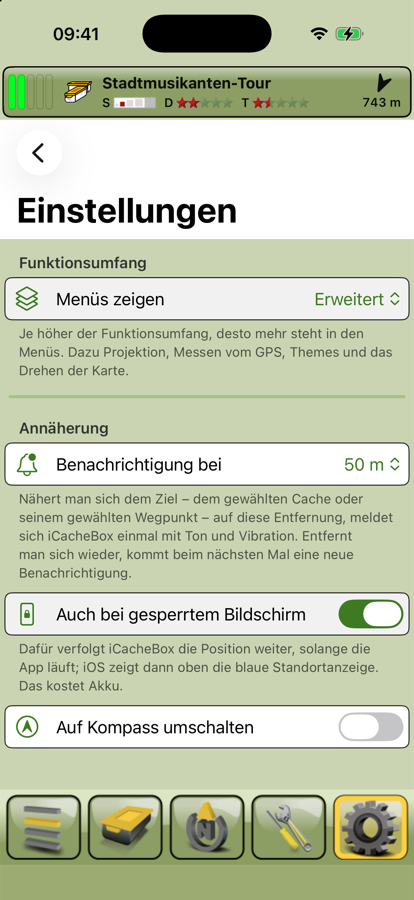
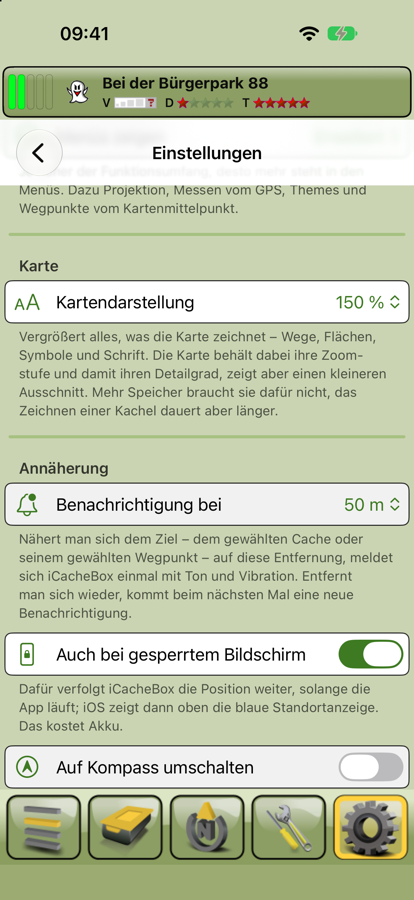
Write up the map size setting in the manual and on the website
The manual gets a section "Karte größer zeichnen" in the Offline-Karten
chapter, with a screenshot of the map at 150 % and of the setting itself,
and the Einstellungen section now names all three settings.

It also corrects a sentence that step 2 of the label layer made wrong:
"Beschriftungen drehen sich wie in Cachebox mit der Karte." Names of
places now stay horizontal, way names turn with their way but are drawn
the other way round before they would be upside down, and the collision
check runs in screen space. karte-gedreht.jpg is retaken to show it;
funktionsumfang.png and annaeherung.png are retaken because the settings
page has the new Karte section between them.

Website: a card "Lesbar unterwegs" on /karten, the same two abilities in
the Offline-Karte description on /funktionen, and the date there. Neither
goes into the Cachebox checklist: today's Cachebox renders bitmap tiles,
and the scale factor is a mapsforge setting it never exposes.

diff --git a/Website/src/main/java/de/cachebox/website/features/FeatureCatalog.java b/Website/src/main/java/de/cachebox/website/features/FeatureCatalog.java
@@ -39,7 +39,7 @@ public final class FeatureCatalog {
                     new Feature("cacheliste-22", "Beschreibungs- und Spoilerbilder beim Import vorladen", false),
                     new Feature("cacheliste-23", "Alte Logs beim Import löschen und Datenbank komprimieren", false))),
             new Section("map.png", "Offline-Karte",
-                    "Mapsforge-Vektorkarten mit frei wählbarem Theme, Freizeitkarten für ganz Europa direkt in der App laden. Alle Caches der Liste liegen auf der Karte, ein Tipp öffnet ihre Info-Blase. Dein Standort als Pfeil in Blickrichtung, im GPS-Modus folgt dir die Karte.", List.of(
+                    "Mapsforge-Vektorkarten mit frei wählbarem Theme, Freizeitkarten für ganz Europa direkt in der App laden. Alle Caches der Liste liegen auf der Karte, ein Tipp öffnet ihre Info-Blase. Dein Standort als Pfeil in Blickrichtung, im GPS-Modus folgt dir die Karte. Drehst du die Karte, bleibt die Beschriftung lesbar und steht nie kopfüber; ist sie dir zu klein, zeichnet iCachebox sie auf Wunsch bis 200 % größer.", List.of(
                     new Feature("karte-01", "Mapsforge-Vektorkarten (.map) offline anzeigen", true),
                     new Feature("karte-02", "Online-Karten wählen: Mapnik, OSM Cycle Map, ESRI-Satellitenbilder", false),
                     new Feature("karte-03", "Zusätzliche Kartenebenen über die Grundkarte legen", false),

diff --git a/Website/src/main/java/de/cachebox/website/views/MapsView.java b/Website/src/main/java/de/cachebox/website/views/MapsView.java
@@ -27,6 +27,10 @@ public class MapsView extends Page {
                 "Render-Themes wie Elevate bringen eigene Stile mit: Wandern, Stadt, Rad oder MTB. "
                         + "Einzelne Ebenen schaltest du im Stilmenü an und aus.",
                 link("OpenAndroMaps", "https://www.openandromaps.org"));
+        card("compass.png", "Lesbar unterwegs",
+                "Drehst du die Karte, bleiben Ortsnamen waagerecht stehen, und Straßennamen folgen zwar "
+                        + "ihrer Straße, stehen aber nie kopfüber. Und wenn dir die Karte zu klein ist, "
+                        + "zeichnet iCachebox sie auf Wunsch bis 200 % größer, ohne Detail zu verlieren.");
         card("satellite.png", "Deine Karten",
                 "Karten und Themes lädst du selbst und wählst sie in der App aus – "
                         + "dieselben Dateien wie in Cachebox für Android.");

diff --git a/Website/src/main/java/de/cachebox/website/views/FeaturesView.java b/Website/src/main/java/de/cachebox/website/views/FeaturesView.java
@@ -22,7 +22,7 @@ public class FeaturesView extends Page {
                 "iCachebox ist dein Werkzeugkasten für die Dosensuche: Alles, was du unterwegs brauchst, "
                         + "liegt auf dem Gerät – auch dort, wo es kein Netz gibt. "
                         + "Die Checklisten zählen die Funktionen von Cachebox für Android auf; abgehakt ist, "
-                        + "was iCachebox schon kann (Stand: 23. November 2026).");
+                        + "was iCachebox schon kann (Stand: 24. November 2026).");
 
         addClassName("features");
         RouterLink vote = new RouterLink("Für die nächsten Funktionspakete abstimmen →", ComingSoonView.class);

diff --git a/CLAUDE.md b/CLAUDE.md
@@ -544,6 +544,13 @@ wird die Kachel auf halber Größe gezeichnet und die Schrift ist entsprechend k
 Einstellung (die Formel `z = round(20 + log2(zoomScale))` ist bei Normal unverändert) und nicht behoben; der
 Faktor wirkt sauber darauf, die Größe ist also immer factor-mal die von Normal. Nicht geprüft: echtes Gerät,
 Akku- und Speicherverhalten bei 200 % über längere Zeit, iPad, VoiceOver, Querformat.
+Anleitung und Website am 24.11.2026 nachgezogen: neuer Abschnitt „Karte größer zeichnen“ samt Screenshot
+(`karte-gross.jpg`, `kartendarstellung.png`), der Absatz „Beschriftung bleibt lesbar“ ersetzt den alten Satz
+„Beschriftungen drehen sich mit der Karte“ (seit Schritt 2 falsch), `karte-gedreht.jpg` neu aufgenommen (Namen
+bleiben aufrecht), `funktionsumfang.png`/`annaeherung.png` erneuert (die Einstellungsseite hat jetzt den Abschnitt
+„Karte“). Website: Kachel „Lesbar unterwegs“ auf /karten, Beschreibung der Offline-Karte auf /funktionen,
+Stand-Datum. Beides nicht in der Cachebox-Checkliste, weil das heutige Cachebox Bitmap-Kacheln rendert und die
+Vergrößerung dort gar nicht einstellbar ist.
 
 Offen (Phase 2): die Zoomstufe des Renderers aus der Kamera statt aus MapKits `zoomScale` (siehe oben),
 Minikarte im Kompass, Theme-ZIPs direkt lesen, mehrere Karten gleichzeitig (MultiMapDataStore), Hillshading,
